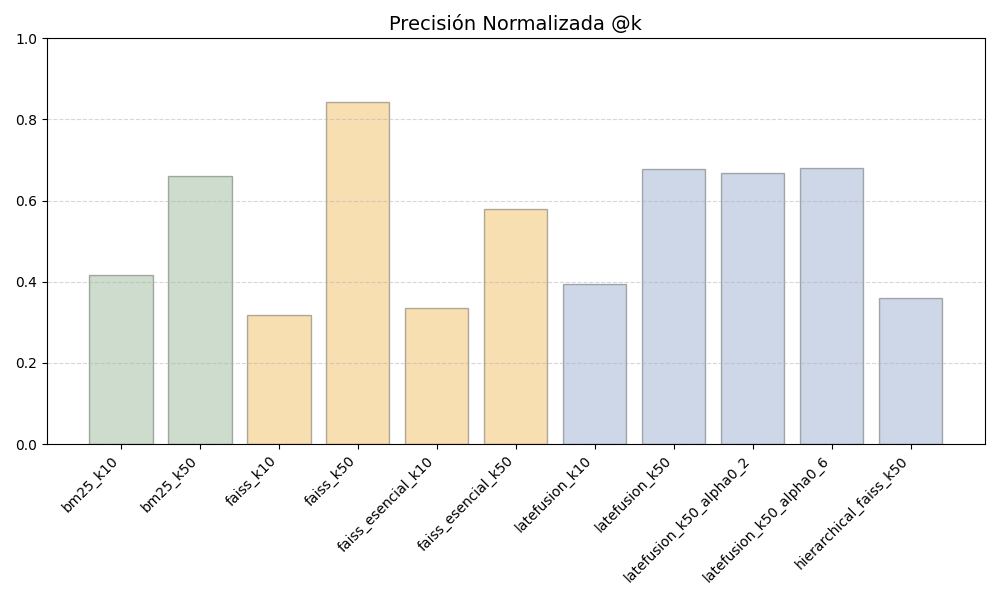
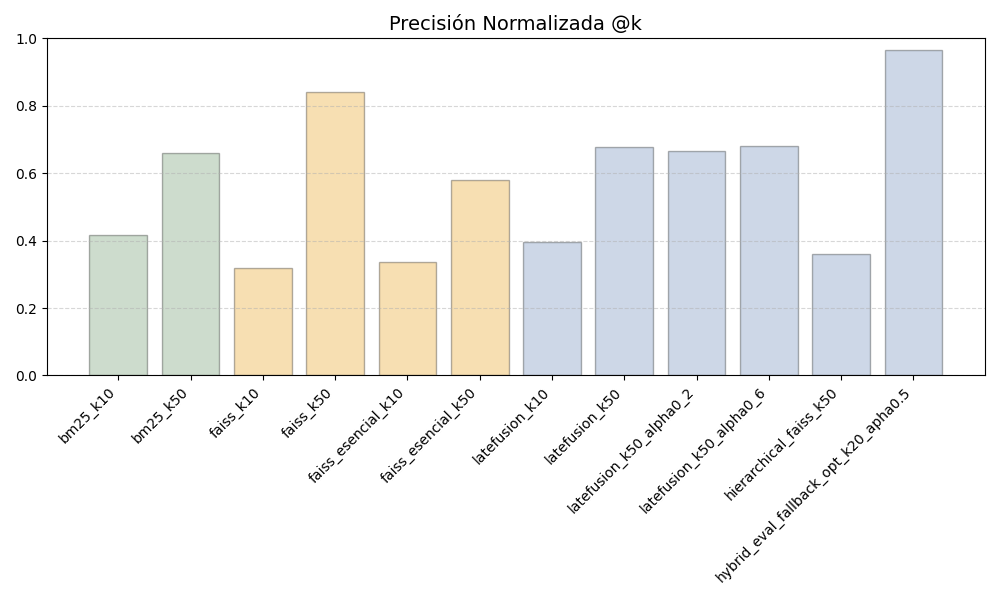
add cache to late fusion with fallback

diff --git a/tools/retrievers.py b/tools/retrievers.py
@@ -40,6 +40,7 @@ _bm25_model = None
 _embedding_model = None
 _faiss_chunks = None
 _faiss_search = None
+_doc_to_chunks = None  # doc_id -> list of (faiss_id, full_chunk_id)
 
 def get_bm25_results(question: str, top_k: int = 50, score_threshold: float = 8.0) -> list[str]:
     global _bm25_model
@@ -249,21 +250,18 @@ def get_late_fusion_with_fallback_optimized(
     faiss_top_k: int = 20,
     fallback_chunk_limit: int = 2,
     device: str = "cuda",
-    verbose: bool = True
+    verbose: bool = False
 ) -> list[dict]:
     """
-    Optimized hybrid retrieval method combining FAISS semantic results with BM25 fallback.
-    - Uses an inverted index to access chunks per document directly.
-    - Avoids full iteration over all chunks.
-    - Reuses the query embedding for faster re-ranking.
-    Intended as a drop-in replacement to improve performance and scalability.
+    Optimized hybrid retrieval: FAISS semantic + fallback BM25 not in FAISS.
+    Uses cached doc-to-chunks mapping and chunks cache for faster lookup.
     """
-    global _embedding_model, _faiss_search, _faiss_chunks
+    global _embedding_model, _faiss_search, _faiss_chunks, _doc_to_chunks
 
     if _embedding_model is None:
         _embedding_model = EmbeddingModel(EMBEDDING_MODEL_NAME, device, 512)
     if _faiss_search is None:
-        _faiss_search = HierarchicalFaissSearch(_embedding_model)
+        _faiss_search = HierarchicalFaissSearch(_embedding_model, verbose=False)
         _faiss_search.load_indices(
             essential_index_path=ESSENTIAL_INDEX_PATH,
             essential_mapping_path=ESSENTIAL_MAPPING_PATH,
@@ -275,13 +273,22 @@ def get_late_fusion_with_fallback_optimized(
     if _faiss_chunks is None:
         with open(CHUNKS_CACHE_PATH, "r", encoding="utf-8") as f:
             _faiss_chunks = json.load(f)
+    if _doc_to_chunks is None:
+        with open(CHUNKS_MAPPING_PATH, "r", encoding="utf-8") as f:
+            mapping = json.load(f)
+        from collections import defaultdict
+        _doc_to_chunks = defaultdict(list)
+        for faiss_id_str, info in mapping.items():
+            doc_id = normalize_doc_id(info["metadata"]["document_id"])
+            chunk_id = info["metadata"]["chunk_id"]
+            full_chunk_id = f"{doc_id}@{chunk_id}"
+            _doc_to_chunks[doc_id].append((int(faiss_id_str), full_chunk_id))
 
-    doc_to_chunks = build_doc_to_chunk_index(CHUNKS_MAPPING_PATH)
-
-    # Retrieve chunks with FAISS
+    # Retrieve top FAISS chunks
     faiss_results = _faiss_search.search_chunks_only(query=question, top_k=faiss_top_k)
-    faiss_doc_ids = set()
     faiss_chunks = []
+    faiss_doc_ids = set()
+
     for res in faiss_results:
         doc_id = normalize_doc_id(res["metadata"].get("document_id", res["chunk_id"].split("@")[0]))
         faiss_doc_ids.add(doc_id)
@@ -291,29 +298,28 @@ def get_late_fusion_with_fallback_optimized(
             "content": res["text"].strip()
         })
 
-    # BM25 docs not covered by FAISS
+    # BM25 fallback doc IDs
     bm25_doc_ids = [normalize_doc_id(d) for d in get_bm25_results(question, top_k=bm25_top_n, score_threshold=0)]
     fallback_doc_ids = [doc_id for doc_id in bm25_doc_ids if doc_id not in faiss_doc_ids][:bm25_fallback_top_n]
 
-    # Reuse the query embedding
+    # Embed the query once
     query_emb = _embedding_model.get_embeddings([question], convert_to_numpy=True, normalize_embeddings=True).squeeze()
 
-    selected_fallback_chunks = []
+    # Select fallback chunks
     fallback_scores = []
+    selected_fallback_chunks = []
 
     for doc_id in fallback_doc_ids:
-        if doc_id not in doc_to_chunks:
+        if doc_id not in _doc_to_chunks:
             continue
-        chunks_info = doc_to_chunks[doc_id]
         similarities = []
-        for faiss_id, full_chunk_id in chunks_info:
+        for faiss_id, full_chunk_id in _doc_to_chunks[doc_id]:
             if full_chunk_id not in _faiss_chunks:
                 continue
-            chunk_text = _faiss_chunks[full_chunk_id]["text"]
+            text = _faiss_chunks[full_chunk_id]["text"]
             chunk_emb = _faiss_search.get_chunk_index().reconstruct(faiss_id)
-            sim_score = float(np.dot(chunk_emb, query_emb))
-            similarities.append((full_chunk_id, chunk_text, sim_score))
-
+            score = float(np.dot(chunk_emb, query_emb))
+            similarities.append((full_chunk_id, text, score))
         top_chunks = sorted(similarities, key=lambda x: x[2], reverse=True)[:fallback_chunk_limit]
         for chunk_id, text, score in top_chunks:
             fallback_scores.append(score)
@@ -325,7 +331,7 @@ def get_late_fusion_with_fallback_optimized(
             })
 
     if verbose:
-        print(f"\n[Fallback OPTIMIZED Summary]")
+        print(f"\n⚡ [Fallback OPTIMIZED Summary]")
         print(f"BM25 top-N: {bm25_top_n}")
         print(f"Fallback candidates: {len(fallback_doc_ids)}")
         print(f"Chunks added from fallback: {len(selected_fallback_chunks)}")

diff --git a/tools/arqa/evaluation/plot_evaluation_results.py b/tools/arqa/evaluation/plot_evaluation_results.py
@@ -107,7 +107,8 @@ def plot_unified_metrics(df: pd.DataFrame, output_path: str) -> None:
         "latefusion_k50",
         "latefusion_k50_alpha0_2",
         "latefusion_k50_alpha0_6",
-        "hierarchical_faiss_k50"
+        "hierarchical_faiss_k50",
+        "late_fusion_fallback_k20_apha0.5"
     ]
 
     # Apply order as categorical
@@ -162,7 +163,8 @@ def plot_individual_metric(df: pd.DataFrame, metric: str, title: str, output_pat
         "latefusion_k50",
         "latefusion_k50_alpha0_2",
         "latefusion_k50_alpha0_6",
-        "hierarchical_faiss_k50"
+        "hierarchical_faiss_k50",
+        "late_fusion_fallback_k20_apha0.5"
     ]
 
     # Apply order as categorical
